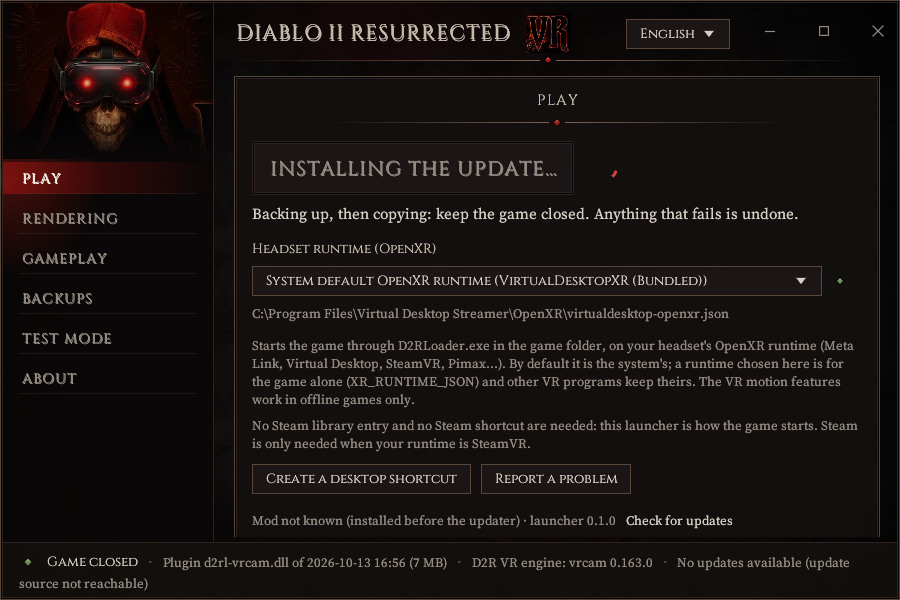
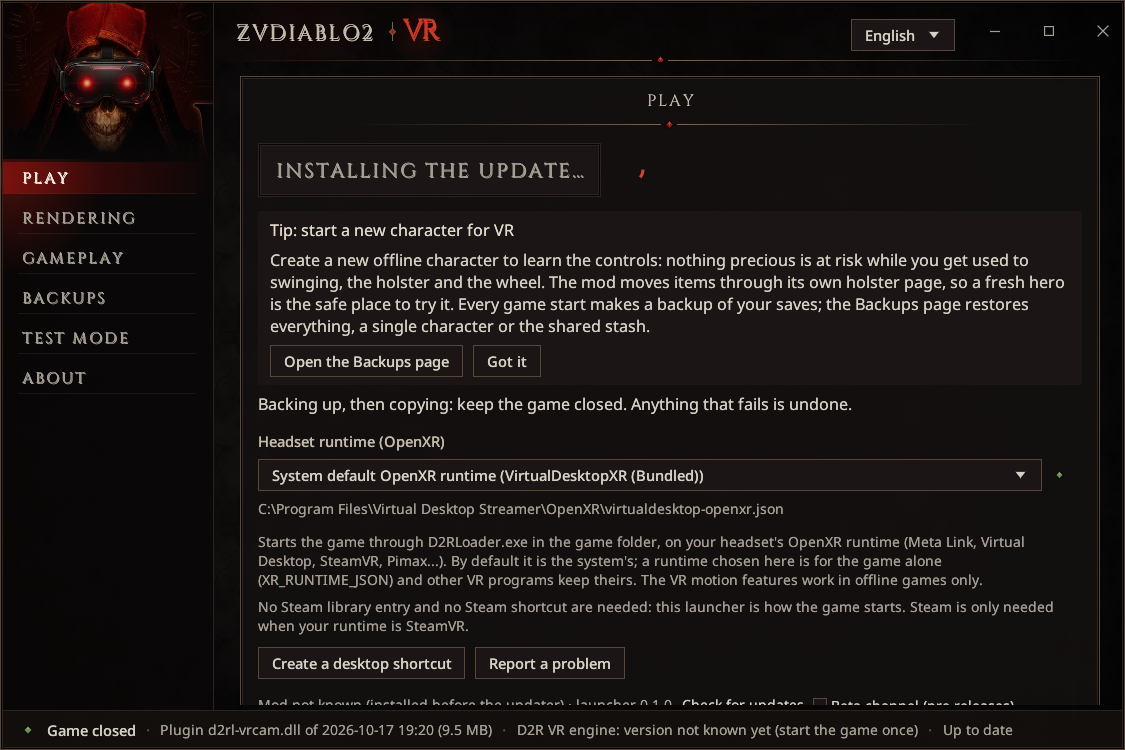
Docs: the launcher's screenshots as ZVDiablo2VR; the controls brought up to date (the bag as the inventory, skills cast at once, the bow on either side of the back)

diff --git a/CONTROLS.md b/CONTROLS.md
@@ -118,6 +118,17 @@ stick walks you, a spell leaves at the start of its cast animation (`walk_after_
 moment) and your hero walks on right after it, instead of standing for the rest of the animation; your casts keep the game's pace (a spell pressed sooner than that is cast at
 its turn, never dropped). A blow with a skill on it (Zeal, Sacrifice...) stops the weapon on the monster it meets.
 
+Direct cast (`[skills] direct_cast = yes`, the default): a missile skill leaves the moment you release, along your
+hand, and your hero walks on - no animation to stand through, as your bow's normal arrow. The bow and crossbow skills
+(Magic, Fire, Cold, Exploding, Ice, Immolation, Freezing Arrow, Multiple Shot, Guided Arrow), the javelin skills
+(Poison and Plague Javelin, Lightning Bolt, Lightning Fury) and the bolts and missiles (Fire Bolt, Ice Bolt, Charged
+Bolt, Ice Blast, Fire Ball, Glacial Spike, Frozen Orb, Teeth, Bone Spear, Bone Spirit, Holy Bolt, Molten Boulder),
+by the shot, the throw, a trigger or a button. The game's rules stay: its mana cost, your real skill level, an arrow
+or a javelin used, its delays (Frozen Orb), nothing in town, and never faster than the animation would have been
+(your FCR or IAS); a refusal is a dull pulse. Strafe, Lightning, Chain Lightning, Inferno, Teleport, the ground
+spells, curses, summons, auras, warcries and blows keep their button, as do all skills while you are chilled,
+slowed or shapeshifted. `direct_cast = no`: every skill by its button.
+
 The game casts a skill only from one of its eight controller slots (B, X, Y, RB, and LT with each).
 With this layout there are no quick casts, so every slot is lent: a skill given to a button is put on
 a free slot by the game's own assignment, read back - **RB, Y, X, B** first, then **LT + RB, LT + Y,
@@ -207,7 +218,11 @@ layer near the rim. Offline only.
 | Let go **outside** the bag | It falls, or flies on its arc if you throw it, and is **dropped on the ground for real** (`[bag] drop`). The game puts it at your feet: its own drop can place it nowhere else (the drawn throw lands where you aimed, then the game's item lies at your feet) |
 | A weapon or a shield let go at a **holster place** | Hung there (a one-hander at a hip or the back; bows, two-handers, javelins and shields on the back) |
 | A weapon held out of the bag, **squeeze that hand's trigger** | It goes to a free holster place and is drawn into that hand, ready to fight with (`[bag] equip`) |
-| Armour or a jewel let go at **its place on your body** | Worn (`[bag] equip`): a helm on top of the head, an amulet at the throat, a body armour at the chest, a belt at the front of the waist, boots low near the floor, gloves or a ring at the wrist of the hand holding the bag. What you wore there comes into the bag |
+| Armour or a jewel let go at **its place on your body** | Worn (`[bag] equip`): a helm on top of the head, an amulet at the throat, a body armour at the chest, a belt at the front of the waist, boots low near the floor, gloves or a ring at the hand holding the bag (anywhere from its wrist to its fingers; a ring goes on **that** hand: open the bag with the other hand for the other ring). What you wore there comes into the bag. The item's panel says where it is worn ("Worn: let go on your head"); held there, the item glows, a brass stud marks the place and a light tick says it |
+| Your **empty** rummaging hand's **grip on your body** where something is worn, the bag open | Taken off into the bag, **in that hand** while you keep squeezing (`[bag] equip`): the top of the head, the throat, the chest, the front of the waist, your feet, the bag hand's fingers (a ring) or wrist (gloves). A light tick and a lit stud say a worn item is under the hand. Not the belt where its potions hang (that grip takes a potion). Weapons and shields: the holster's places, as before |
+| An item let go **on the Horadric Cube** in the bag | Into the Cube, at its first free place (`[bag] cube`); no room there: it stays in the bag |
+| The **Cube held** out of the bag and **turned over** (the controller's top down) a moment | Emptied into the bag: every item in it into the inventory, or none if they do not all fit (`[bag] cube`). Transmuting: the game's Cube panel (trigger on the Cube) |
+| The **brass button** on the bag's front (right of the gauge): touch it, or point at it and pull the trigger | **Sort** (`[bag] sort_button`): the game's grid sorted - the biggest first, by kind (weapons and armour, charms, gems, runes and jewels, potions, scrolls, tomes and keys, quest items and the Cube), packed with no hole, one move (all or nothing, nothing leaves the inventory) - and every item laid flat at its cells' place in the bag. Not while an item is in a hand or on its way, on the game's cursor, or a menu is open |
 | A potion let go at the **belt** | Into that column (`[bag] belt`) - not possible yet: the game's request is not known; it comes back into the bag and the log says so |
 | A **weapon in your hand** let go inside the open bag | Into the inventory (through a free holster place) |
 | A belt potion let go inside the open bag | Into the inventory - not possible yet (the same reason): it goes back to the belt |

diff --git a/docs/guide/controls.md b/docs/guide/controls.md
@@ -53,7 +53,7 @@ triggers pick in a wheel.
 | Place | What is there |
 |---|---|
 | **Hips**, left and right | One-handed weapons, throwing knives and axes |
-| **Upper back, left** | The shield (first choice) - reach over your shoulder |
+| **Upper back, left** | The shield (first choice) or the bow - reach over your shoulder |
 | **Upper back, right** | The bow, a two-handed weapon or the javelins (first choice) |
 | **Behind the right shoulder** | The quiver: a bow in hand, the right trigger there takes an arrow |
 | **Middle or lower back** | The bag: an empty hand and the grip open the 3D bag in that hand; an item let go there goes into your inventory |

diff --git a/docs/guide/install.md b/docs/guide/install.md
@@ -63,9 +63,6 @@ install.
 
 ![The Play page, ready to install](../../tools/launcher/screenshots/launcher-play-install-en.png)
 
-*(The launcher's screenshots were taken before the project took its name: the window title then read
-"Diablo II Resurrected VR" and the package "d2rvr-mod". Everything else is the same.)*
-
 What happens, in order:
 
 1. **D2RLoader, with your consent.** If the game folder has no D2RLoader, a window asks *"Download
